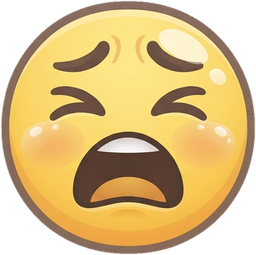
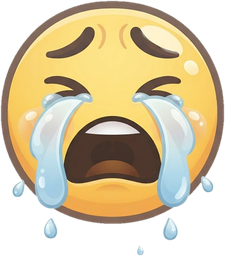
Reactions: use your updated settings (no mirroring, crying with tears drawn)
Claude-Session: https://claude.ai/code/session_01LfmF5cxUUBcpb9MQqZTHNz

diff --git a/index.html b/index.html
@@ -2794,19 +2794,19 @@
     "❤": { id: "heart", label: "Heart" },
     "\u{1F525}": { id: "fire", label: "Fire" },
     "\u{1F937}": { id: "shrug", label: "Shrug" },
-    "\u{1F600}": { id: "grin", label: "Grin", mirror: true },
+    "\u{1F600}": { id: "grin", label: "Grin" },
     "⏰": { id: "alarm", label: "Alarm clock" },
-    "\u{1F389}": { id: "popper", label: "Party popper", mirror: true },
+    "\u{1F389}": { id: "popper", label: "Party popper" },
     "\u{1F624}": { id: "triumph", label: "Triumph" },
-    "\u{1F62B}": { id: "tired", label: "Tired face", mirror: true },
+    "\u{1F62B}": { id: "tired", label: "Tired face" },
     "\u{1F913}": { id: "nerd", label: "Nerd" },
     "\u{1F4AA}": { id: "flex", label: "Flexed arm" },
     "☠": { id: "skull", label: "Skull" },
     "\u{1F62D}": { id: "crying", label: "Crying" },
     // second pack
     "\u{1F92F}": { id: "mindblown", label: "Mind blown" },
-    "\u{1F605}": { id: "nervous", label: "Nervous smile", mirror: true },
-    "\u{1F451}": { id: "crown", label: "Crown", mirror: true },
+    "\u{1F605}": { id: "nervous", label: "Nervous smile" },
+    "\u{1F451}": { id: "crown", label: "Crown" },
     "\u{1F3C6}": { id: "trophy", label: "Trophy" },
     "\u{1F612}": { id: "sideeye", label: "Side eye" },
   };
@@ -6601,7 +6601,7 @@
     nerd: (c) => { c.move([{ transform: RX_POP }, { transform: 'translateY(-8px) rotate(-4deg)', offset: .35 }, { transform: 'translateY(0) rotate(3deg)', offset: .6 }, { transform: 'none' }], 1200); c.burst({ src: 'spark-1', n: 1, from: [.36, .42], ang: [-45, -45], dist: [0, 2], size: [22, 22], delay: 500, grow: 1.3, spin: 90 }); },
     flex: (c) => { c.move([{ transform: RX_POP }, { transform: 'scale(1.22) rotate(-8deg)', offset: .25 }, { transform: 'scale(1)', offset: .4 }, { transform: 'scale(1.22) rotate(-8deg)', offset: .6 }, { transform: 'none' }], 1300); c.burst({ src: () => rxPick(RX_SPARK), n: 3, from: [.7, .35], ang: [-130, -40], dist: [30, 46], size: [14, 20], delay: 300, stagger: 150 }); },
     skull: (c) => { c.move([{ transform: RX_POP }, ...rxShake(9, 10)], 1300); c.burst({ src: 'spark-2', n: 1, from: [.35, .3], ang: [-135, -135], dist: [6, 10], size: [18, 18], delay: 450, grow: 1.2, spin: 60 }); },
-    crying: (c) => { c.move([{ transform: RX_POP }, ...rxShake(4, 8, 'translateY(2px)')], 1600); [.32, .68].forEach(function (x) { c.burst({ src: () => rxPick(['tear-4', 'tear-5']), n: 3, from: [x, .52], ang: [85, 95], dist: [42, 56], size: [11, 15], delay: 250, stagger: 260 }); }); },
+    crying: (c) => { c.move([{ transform: RX_POP }, ...rxShake(4, 8, 'translateY(2px)')], 1600); },
     mindblown: (c) => { c.move([{ transform: RX_POP }, { transform: 'scale(1.28)', offset: .25 }, { transform: 'scale(.95) rotate(-3deg)', offset: .45 }, { transform: 'scale(1.1) rotate(3deg)', offset: .65 }, { transform: 'none' }], 1300); c.burst({ src: () => rxPick(RX_SPARK), n: 6, from: [.5, .22], ang: [-170, -10], dist: [36, 56], size: [14, 22], delay: 250, stagger: 80 }); },
     nervous: (c) => { c.move([{ transform: RX_POP }, ...rxShake(3, 14, 'translateX(1px)')], 1300); c.burst({ src: 'tear-6', n: 1, from: [.74, .24], ang: [80, 100], dist: [36, 44], size: [12, 14], delay: 350 }); },
     crown: (c) => { c.move([{ transform: RX_POP }, { transform: 'translateY(-10px) rotate(-6deg)', offset: .35 }, { transform: 'translateY(0) rotate(5deg)', offset: .6 }, { transform: 'none' }], 1200); c.burst({ src: () => rxPick(RX_SPARK), n: 4, from: [.5, .3], ang: [-160, -20], dist: [30, 48], size: [13, 20], delay: 300, stagger: 130 }); },
